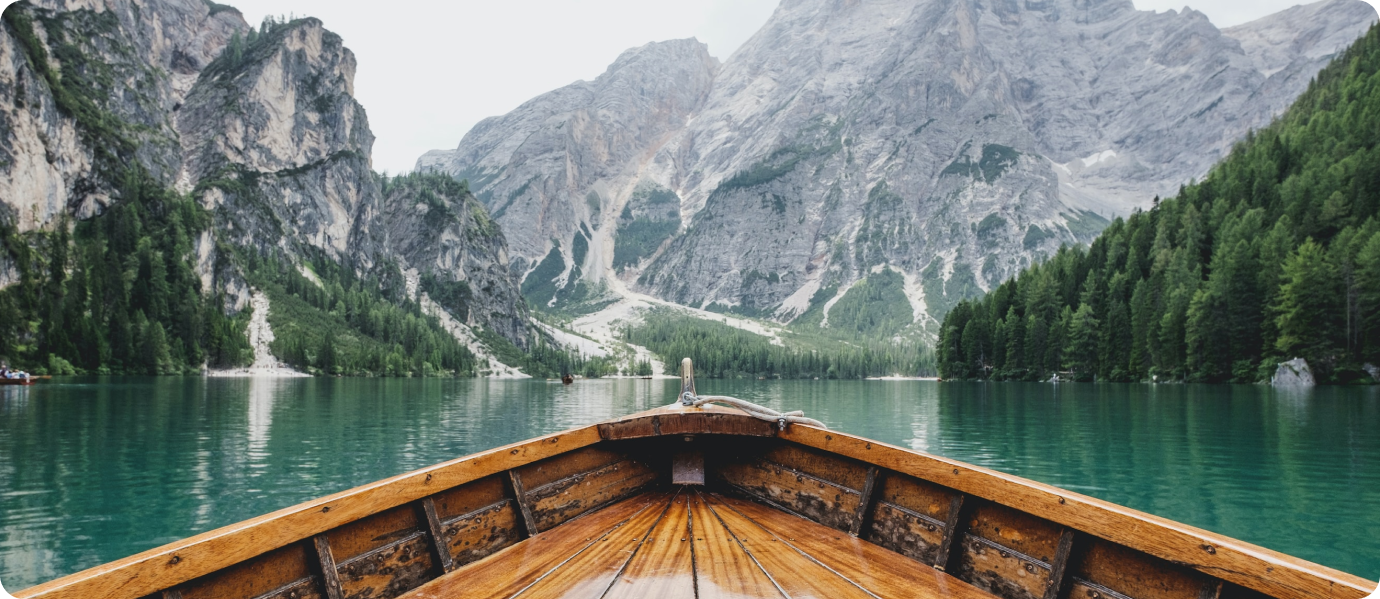
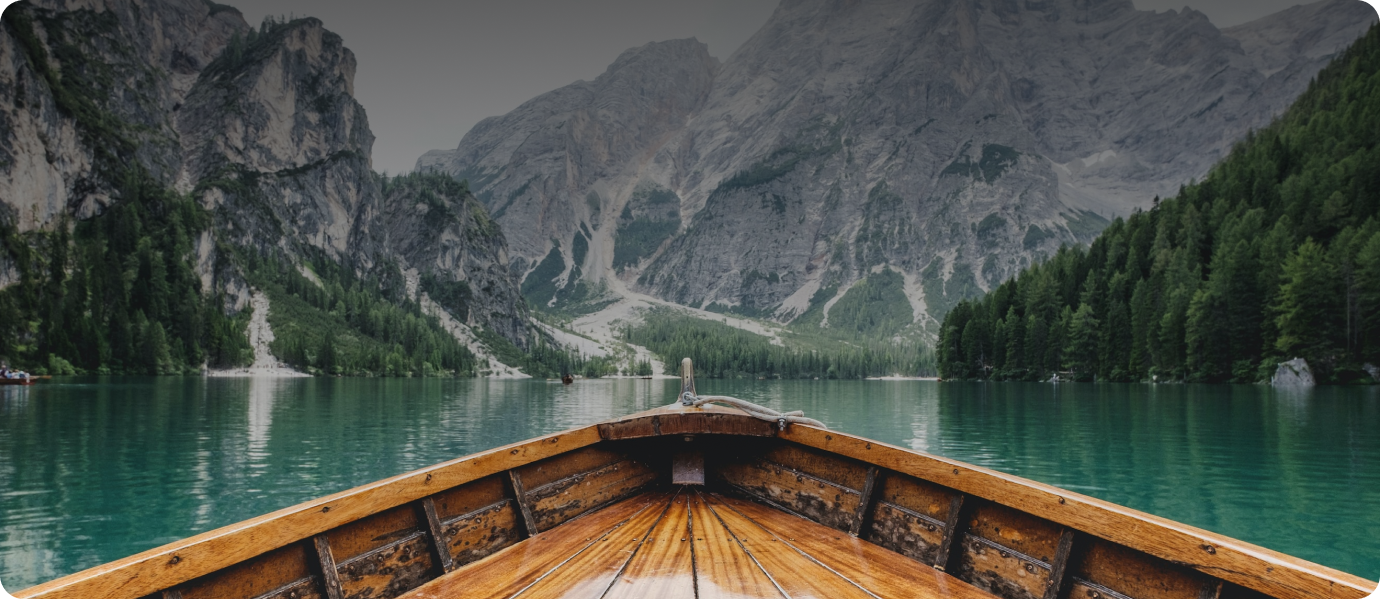
create a component and a couple of components for home page

diff --git a/src/features/IntroSection/IntroSearch/index.jsx b/src/features/IntroSection/IntroSearch/index.jsx
@@ -1,0 +1,74 @@
+import { useState } from "react";
+import { FaPaperPlane } from "react-icons/fa";
+import { MdFlight } from "react-icons/md";
+import { IoBed } from "react-icons/io5";
+
+import { cn } from "../../../utils";
+
+const IntroSearch = () => {
+  const [activeButton, setActiveButton] = useState("Flights");
+  return (
+    <div className="bg-white rounded-xl flex justify-start items-start w-[90%] h-auto mx-auto p-8 flex-col shadow-md">
+      <div className="flex flex-col items-start justify-start">
+        <div className="flex justify-around items-center space-x-4 divide-x-2 divide-gray-300 divide-solid">
+          <div
+            className={cn(
+              activeButton === "Flights" && "border-b-4 border-b-mintGreen"
+            )}
+          >
+            <button
+              className="py-4 px-1 text-blackishGreen font-semibold flex items-center"
+              onClick={() => setActiveButton("Flights")}
+            >
+              <MdFlight size="1.5em" className="mr-1" />
+              Flights
+            </button>
+          </div>
+          <div
+            className={cn(
+              activeButton === "Stays" && "border-b-4 border-b-mintGreen"
+            )}
+          >
+            <button
+              className="py-4 px-1 text-blackishGreen font-semibold flex items-center w-full h-auto p-2"
+              onClick={() => setActiveButton("Stays")}
+            >
+              <IoBed size="1.5em" className="mx-1" />
+              Stays
+            </button>
+          </div>
+        </div>
+        <div className="flex items-center space-x-6 mt-12">
+          <fieldset className="border border-black rounded-md p-2">
+            <legend className="bg-white p-2 text-sm ml-2">From - To</legend>
+            <input />
+          </fieldset>
+          <fieldset className="border border-black rounded-md p-2">
+            <legend className="bg-white p-2 text-sm ml-2">Trip</legend>
+            <input />
+          </fieldset>
+          <fieldset className="border border-black rounded-md p-2">
+            <legend className="bg-white p-2 text-sm ml-2">
+              Depart- Return
+            </legend>
+            <input />
+          </fieldset>
+          <fieldset className="border border-black rounded-md p-2">
+            <legend className="bg-white p-2 text-sm ml-2">
+              Passenger - Class
+            </legend>
+            <input />
+          </fieldset>
+        </div>
+      </div>
+      <div className="w-full flex justify-end mt-4">
+        <button className="flex items-center text-sm text-blackishGreen bg-mintGreen p-4 hover:text-white transition-all">
+          <FaPaperPlane className="mr-1" size="1rem" />
+          Show flights
+        </button>
+      </div>
+    </div>
+  );
+};
+
+export default IntroSearch;

diff --git a/src/features/IntroSection/index.jsx b/src/features/IntroSection/index.jsx
@@ -1,0 +1,62 @@
+import { tripCards } from "../Contants";
+import IntroHeader from "./IntroHeader";
+import IntroSearch from "./IntroSearch";
+
+const IntroSection = () => {
+  return (
+    <section className="w-full h-full p-8">
+      <div className="h-screen bg-intro bg-center bg-no-repeat bg-cover rounded-xl ">
+        <IntroHeader />
+        <div className="w-full h-auto flex flex-col items-center justify-center my-20">
+          <h3 className="text-5xl font-bold text-white">Helping Others</h3>
+          <h2 className="text-white font-bold text-[5rem] mt-1">
+            Live & Travel
+          </h2>
+          <h4 className="text-white font-semibold text-lg mt-4">
+            Special offers to suit your plan
+          </h4>
+        </div>
+        <IntroSearch />
+        <div className="w-full h-auto mt-20 flex items-center justify-center flex-col">
+          <div className="flex items-center justify-between w-full">
+            <div>
+              <h3 className="text-3xl font-semibold text-black">
+                Plan your perfect trip
+              </h3>
+              <p className="text-blackishGreen/75 font-base mt-4">
+                Search Flights & Places Hire to our most popular destinations
+              </p>
+            </div>
+            <button className="px-4 py-3 text-sm text-blackishGreen border border-mintGreen hover:bg-mintGreen transition-colors">
+              See more places
+            </button>
+          </div>
+          <div className="grid grid-cols-3 mt-8 w-full gap-8">
+            {tripCards.map(({ id, img, alt, title }) => (
+              <div
+                key={id}
+                className="bg-white shadow-md flex items-center space-x-4 rounded-xl p-4"
+              >
+                <img src={img} alt={alt} />
+                <div>
+                  <h5 className="text-blackishGreen/70 text-base font-semibold">
+                    {title}
+                  </h5>
+                  <div className="space-x-2 mt-2">
+                    <span className="text-sm text-blackishGreen">Flights</span>
+                    <span className="text-sm text-blackishGreen">• Hotels</span>
+                    <span className="text-sm text-blackishGreen">
+                      • Resorts
+                    </span>
+                  </div>
+                </div>
+              </div>
+            ))}
+          </div>
+        </div>
+      </div>
+    </section>
+  );
+};
+
+export default IntroSection;

diff --git a/public/index.html b/public/index.html
@@ -10,34 +10,11 @@
       content="Web site created using create-react-app"
     />
     <link rel="apple-touch-icon" href="%PUBLIC_URL%/logo192.png" />
-    <!--
-      manifest.json provides metadata used when your web app is installed on a
-      user's mobile device or desktop. See https://developers.google.com/web/fundamentals/web-app-manifest/
-    -->
     <link rel="manifest" href="%PUBLIC_URL%/manifest.json" />
-    <!--
-      Notice the use of %PUBLIC_URL% in the tags above.
-      It will be replaced with the URL of the `public` folder during the build.
-      Only files inside the `public` folder can be referenced from the HTML.
-
-      Unlike "/favicon.ico" or "favicon.ico", "%PUBLIC_URL%/favicon.ico" will
-      work correctly both with client-side routing and a non-root public URL.
-      Learn how to configure a non-root public URL by running `npm run build`.
-    -->
-    <title>React App</title>
+    <title>Golobe - your trip guide</title>
   </head>
   <body>
     <noscript>You need to enable JavaScript to run this app.</noscript>
     <div id="root"></div>
-    <!--
-      This HTML file is a template.
-      If you open it directly in the browser, you will see an empty page.
-
-      You can add webfonts, meta tags, or analytics to this file.
-      The build step will place the bundled scripts into the <body> tag.
-
-      To begin the development, run `npm start` or `yarn start`.
-      To create a production bundle, use `npm run build` or `yarn build`.
-    -->
   </body>
 </html>

diff --git a/src/components/Header/index.jsx b/src/components/Header/index.jsx
@@ -1,0 +1,35 @@
+import { MdFlight } from "react-icons/md";
+import { IoBed } from "react-icons/io5";
+import { NavLink, Link } from "react-router-dom";
+
+import logo from "../../img/logo/logo.png";
+
+const Header = () => {
+  return (
+    <header className="w-full flex justify-between items-center p-8 bg-white">
+      <div className="text-sm flex items-center space-x-8">
+        <NavLink className="text-blackishGreen font-semibold flex items-center hover:underline hover:underline-offset-4 transition-all">
+          <MdFlight size="1.5em" className="mr-1" />
+          Find Flight
+        </NavLink>
+        <NavLink className="text-blackishGreen font-semibold flex items-center hover:underline hover:underline-offset-4 transition-all">
+          <IoBed size="1.5em" className="mr-1" />
+          Find Stays
+        </NavLink>
+      </div>
+      <Link to="/">
+        <img src={logo} alt="Logo golobe" />
+      </Link>
+      <div className="text-sm flex items-center space-x-8">
+        <NavLink className="text-blackishGreen font-semibold flex items-center rounded-lg px-6 py-4 transition-all hover:bg-blackishGreen hover:text-white">
+          Sign In
+        </NavLink>
+        <NavLink className="text-blackishGreen font-semibold flex items-center  rounded-lg px-6 py-4 transition-all hover:bg-blackishGreen hover:text-white">
+          Sign Up
+        </NavLink>
+      </div>
+    </header>
+  );
+};
+
+export default Header;

diff --git a/src/features/IntroSection/IntroHeader/index.jsx b/src/features/IntroSection/IntroHeader/index.jsx
@@ -1,0 +1,35 @@
+import { MdFlight } from "react-icons/md";
+import { IoBed } from "react-icons/io5";
+import { NavLink, Link } from "react-router-dom";
+
+import logo from "../../../img/logo/logo-white.png";
+
+const IntroHeader = () => {
+  return (
+    <header className="w-full flex justify-between items-center p-8">
+      <div className="text-sm flex items-center space-x-8">
+        <NavLink className="text-white font-semibold flex items-center hover:underline hover:underline-offset-4 transition-all">
+          <MdFlight size="1.5em" className="mr-1" />
+          Find Flight
+        </NavLink>
+        <NavLink className="text-white font-semibold flex items-center hover:underline hover:underline-offset-4 transition-all">
+          <IoBed size="1.5em" className="mr-1" />
+          Find Stays
+        </NavLink>
+      </div>
+      <Link to="/">
+        <img src={logo} alt="Logo golobe" />
+      </Link>
+      <div className="text-sm flex items-center space-x-8">
+        <NavLink className="text-white font-semibold flex items-center rounded-lg px-6 py-4 transition-all hover:bg-white hover:text-blackishGreen">
+          Sign In
+        </NavLink>
+        <NavLink className="text-white font-semibold flex items-center rounded-lg px-6 py-4 transition-all hover:bg-white hover:text-blackishGreen">
+          Sign Up
+        </NavLink>
+      </div>
+    </header>
+  );
+};
+
+export default IntroHeader;

diff --git a/src/index.css b/src/index.css
@@ -1,20 +1,15 @@
+@import url('https://fonts.googleapis.com/css2?family=Montserrat:wght@400;500;600;700&family=Poppins:wght@300;400;500;600;700;800;900&display=swap');
+
 @tailwind base;
 @tailwind components;
 @tailwind utilities;
 
 body {
   margin: 0;
-  font-family: -apple-system, BlinkMacSystemFont, 'Segoe UI', 'Roboto', 'Oxygen',
-    'Ubuntu', 'Cantarell', 'Fira Sans', 'Droid Sans', 'Helvetica Neue',
-    sans-serif;
-  -webkit-font-smoothing: antialiased;
-  -moz-osx-font-smoothing: grayscale;
+  font-family: 'Montserrat', sans-serif;
+  background-color: #FAFBFC;
 }
 
-code {
-  font-family: source-code-pro, Menlo, Monaco, Consolas, 'Courier New',
-    monospace;
-}
 
 .lds-dual-ring {
   display: inline-block;

diff --git a/src/features/App/index.jsx b/src/features/App/index.jsx
@@ -5,13 +5,13 @@ import Loader from "../../components/Loader";
 import Homepage from "../../pages/Home";
 
 const App = () => (
-  <Router basename="/e-commerce">
-              <Suspense fallback={<Loader />}>
-                <Routes>
-                  <Route path="/" element={<Homepage />} />
-                </Routes>
-              </Suspense>
-            </Router>
+  <Router>
+    <Suspense fallback={<Loader />}>
+      <Routes>
+        <Route path="/" element={<Homepage />} />
+      </Routes>
+    </Suspense>
+  </Router>
 );
 
 export default App;

diff --git a/tailwind.config.js b/tailwind.config.js
@@ -2,7 +2,17 @@
 module.exports = {
   content: ["./src/**/*.{js,ts,jsx,tsx,mdx}"],
   theme: {
-    extend: {},
+    extend: {
+      colors: {
+        mintGreen: "#8DD3BB",
+        blackishGreen: "#112211",
+        colorText: "#1C1B1F",
+        grey: "#79747E",
+      },
+      backgroundImage: {
+        intro: "url('img/intro.png')",
+      },
+    },
   },
   plugins: [],
 };

diff --git a/src/pages/Home.jsx b/src/pages/Home.jsx
@@ -1,8 +1,6 @@
+import IntroSection from "../features/IntroSection";
+
 const Homepage = () => {
-  return (
-    <div>
-      <h1>Homepage</h1>
-    </div>
-  );
+  return <IntroSection />;
 };
 export default Homepage;
